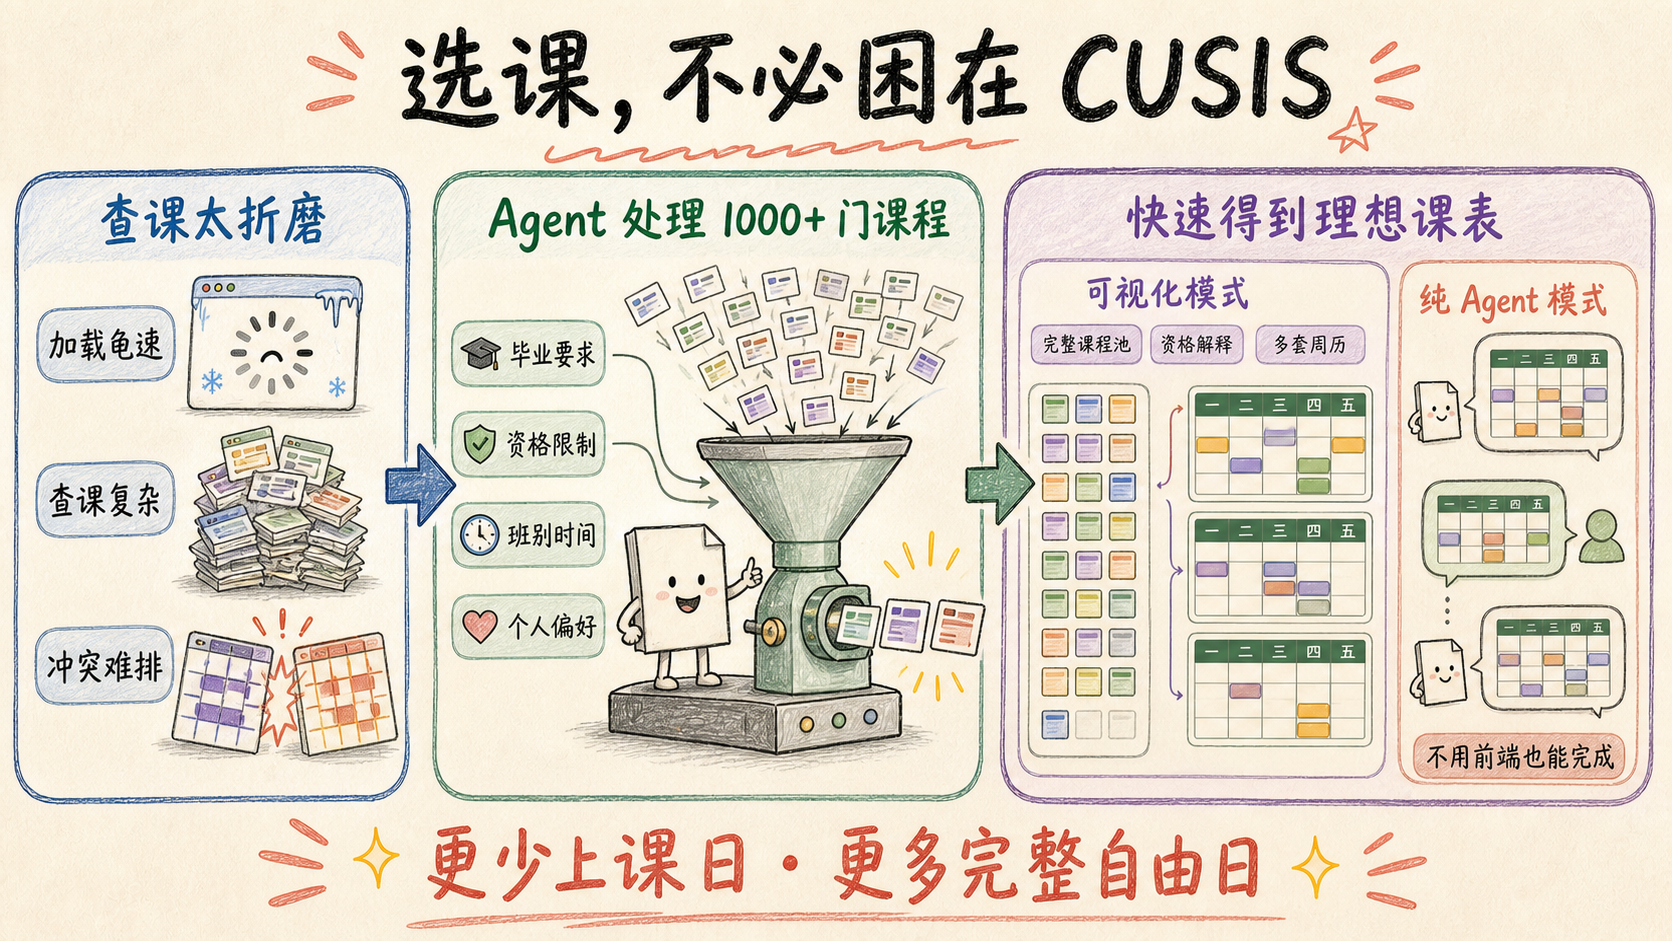
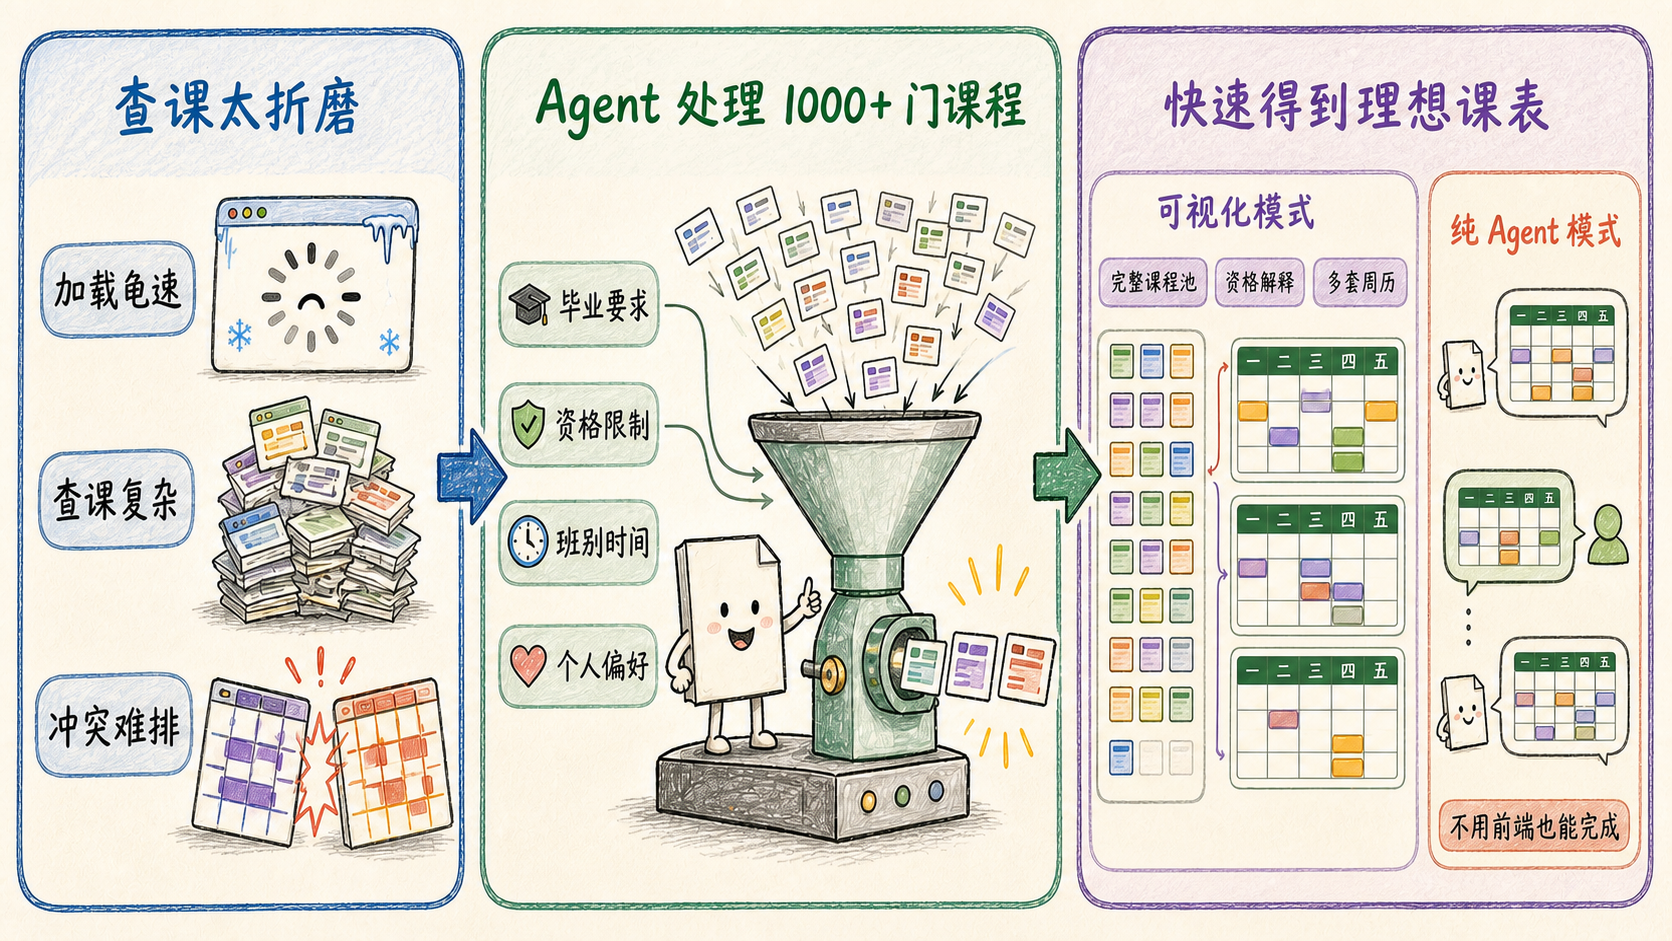
docs: refine README feature illustration

diff --git a/image-cards/courseplan-feature/prompts/01-feature-courseplan-v2.md b/image-cards/courseplan-feature/prompts/01-feature-courseplan-v2.md
@@ -1,0 +1,18 @@
+# CUHK CoursePlan README knowledge card — v2
+
+Edit the supplied reference image while preserving its established hand-drawn educational knowledge-card style, warm off-white paper texture, colored-pencil linework, muted blue/green/purple/orange palette, 16:9 canvas, and all internal illustrations and Chinese copy.
+
+Make only this layout correction:
+
+- Completely remove the global top title “选课，不必困在 CUSIS”, including its underline, star, and surrounding decorative strokes.
+- Completely remove the global bottom summary “更少上课日 · 更多完整自由日”, including its underline, sparkles, and surrounding decorative strokes.
+- Do not replace either removed area with any new title, slogan, caption, logo, or decoration.
+- Expand the three existing main knowledge-card panels vertically into the reclaimed top and bottom space, keeping comfortable outer margins and vertically centering the full three-panel composition on the canvas.
+
+Preserve exactly the three-panel information architecture and internal wording:
+
+1. Left blue panel: “查课太折磨”, with “加载龟速”, “查课复杂”, “冲突难排”.
+2. Center green panel: “Agent 处理 1000+ 门课程”, with “毕业要求”, “资格限制”, “班别时间”, “个人偏好”.
+3. Right purple panel: “快速得到理想课表”, including the large “可视化模式” area with “完整课程池”, “资格解释”, “多套周历”, and the smaller “纯 Agent 模式” area with “不用前端也能完成”.
+
+Keep the left-to-right arrows, characters, course cards, funnel machine, calendars, proportions, visual hierarchy, and all panel colors consistent with the reference. The finished image should read as a clean explanatory cartoon knowledge card with no global headline and no footer slogan.
